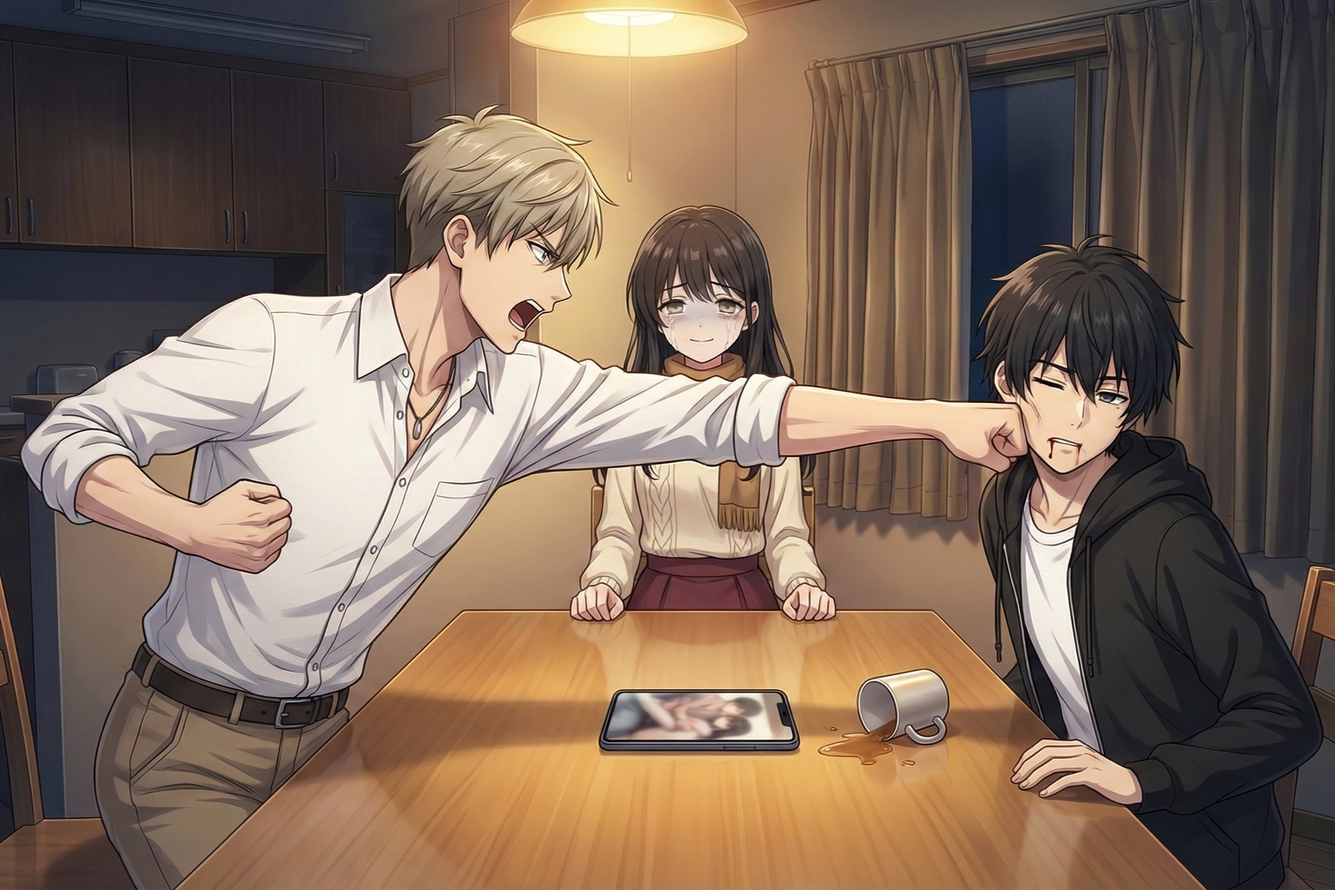
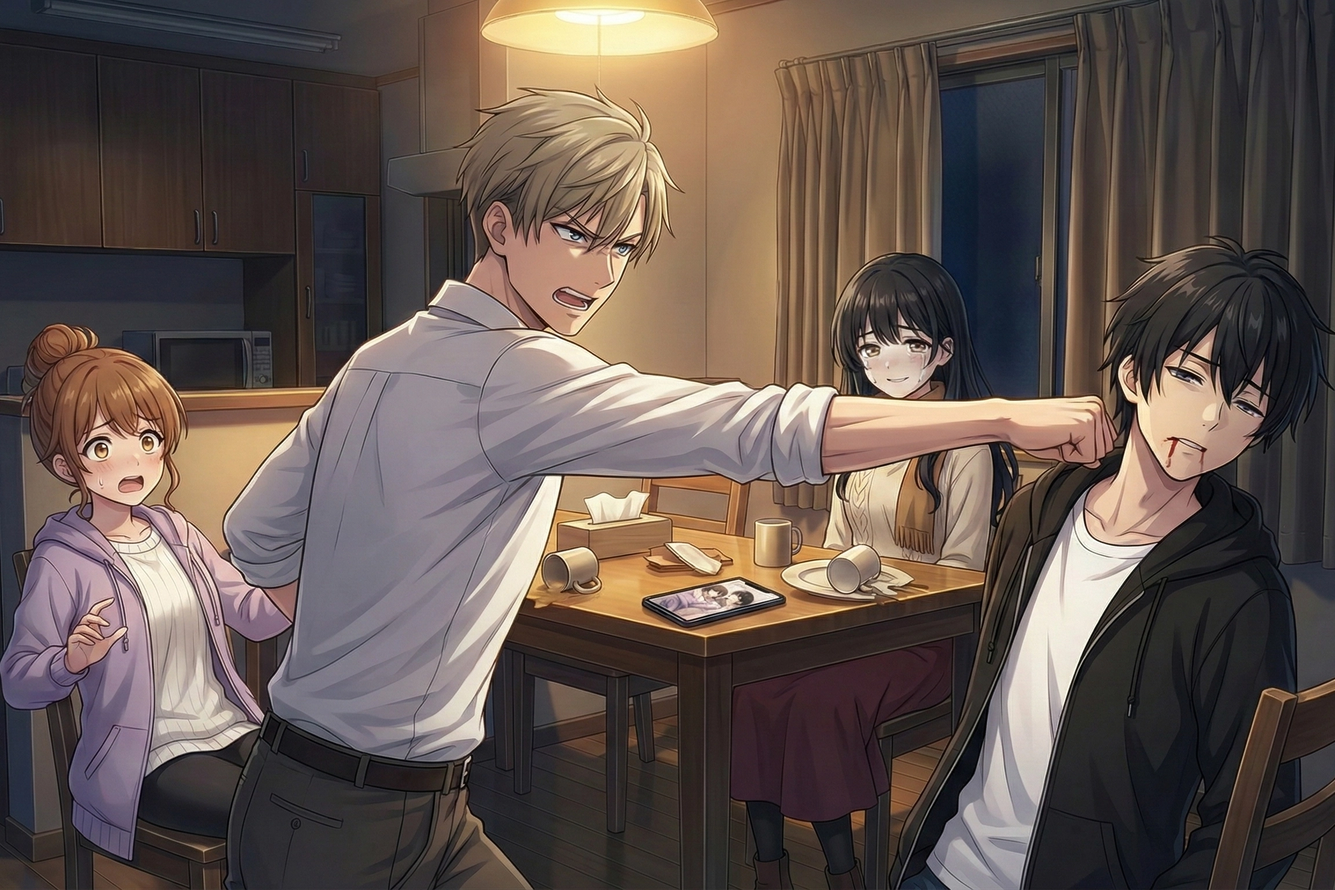
update image

diff --git a/_site/index.html b/_site/index.html
@@ -20,7 +20,7 @@
     <link rel="alternate" type="application/rss+xml" title="RSS Feed for Yiwei's Blogs" href="/feed.xml" />
 
     <!-- Custom CSS -->
-    <link rel="stylesheet" href="/css/pixyll.css?202511242055" type="text/css">
+    <link rel="stylesheet" href="/css/pixyll.css?202511242101" type="text/css">
 
     <!-- Fonts -->
     

diff --git a/_posts/2025-11-23-reflection-v1.1.md b/_posts/2025-11-23-reflection-v1.1.md
@@ -4353,7 +4353,7 @@ Ver 1.1 更新
 
 我不在乎。
 
-![](/images/reflection-cg/3.webp)
+![](/images/reflection-cg/23.webp)
 
 我只是抬起头，越过藤堂彰那因为愤怒而扭曲的肩膀，看着那早已瘫软在地、彻底失去了所有神采的灯里。又看了看那趴在桌子上、脸上带着那抹惨然微笑的、仿佛已经死去了的美羽。
 
